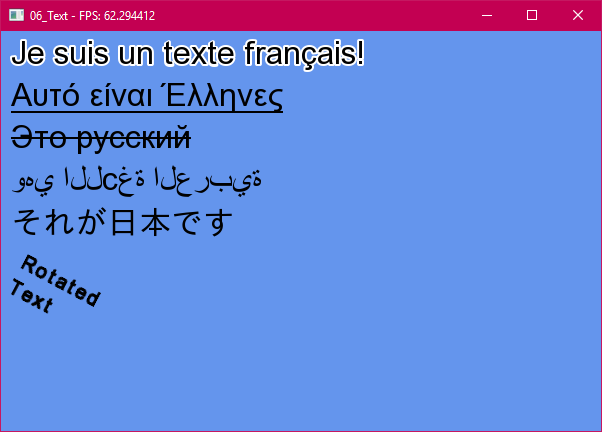
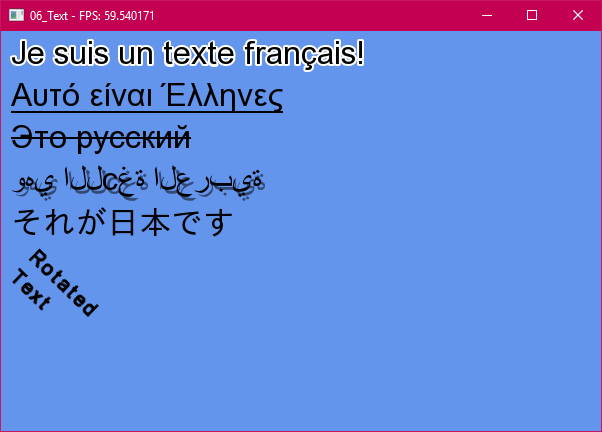
Update example #6 to demonstrate the drop-shadow.

Changed region(s): [[0.0299, 0.3912, 0.4485, 0.4815], [0.0, 0.5718, 0.1794, 0.7523], [0.1794, 0.0, 0.2691, 0.0602]]

diff --git a/examples/06_Text/main.cpp b/examples/06_Text/main.cpp
@@ -137,7 +137,8 @@ void init()
     arabicText.setFont(font);
     arabicText.setTextSize(32);
     arabicText.setOutlineWidth(2.f);
-    arabicText.setText(U"وهي اللcغة العربية");
+    arabicText.setShadowOffset(4, 4);
+    arabicText.setText(U"وهي اللcغة العربية", Qube2D::TextStyle::DropShadow);
     arabicText.setPosition(10.f, 136.f);
     arabicText.setColor(color);
 
